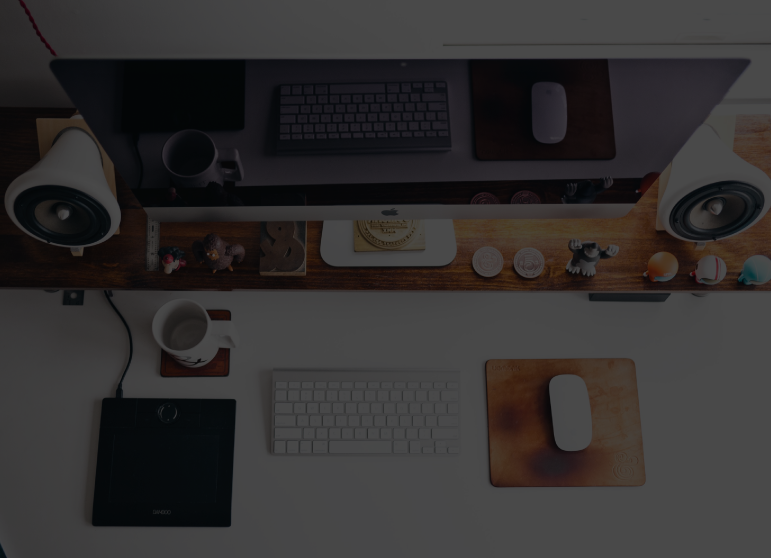
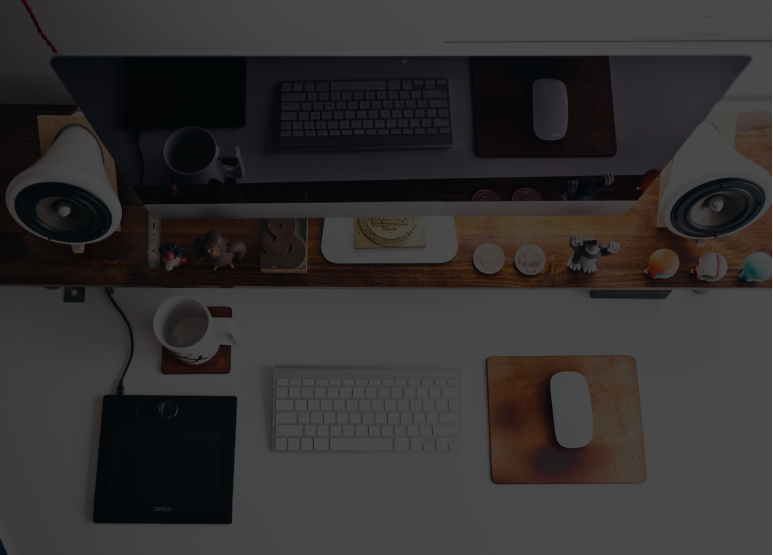
update to main background img, changed login button color

diff --git a/css/cyphre.min.css b/css/cyphre.min.css
@@ -1,1 +1,1 @@
-.font-thin{font-family:"Titillium Web",sans-serif;font-weight:200}.font-semibold{font-family:"Titillium Web",sans-serif;font-weight:600}.font-light{font-family:"Titillium Web",sans-serif;font-weight:300}body{overflow-x:hidden;font-family:"Roboto Slab","Helvetica Neue",Helvetica,Arial,sans-serif}.text-muted{color:#777}.text-primary{color:#fcc40b}p{font-size:14px;line-height:1.75}p.large{font-size:16px}a,a.active,a:active,a:focus,a:hover{outline:0}a{color:#fcc40b}a.active,a:active,a:focus,a:hover{color:#d1a103}h1,h2,h3,h4,h5,h6{font-family:Montserrat,"Helvetica Neue",Helvetica,Arial,sans-serif;text-transform:uppercase;font-weight:700}.img-centered{margin:0 auto}.bg-light-gray{background-color:#f7f7f7}.bg-darkest-gray{background-color:#222}.btn-redirect{color:#fff;background-color:#fcc40b;border-color:#fcc40b;font-family:Montserrat,"Helvetica Neue",Helvetica,Arial,sans-serif;text-transform:uppercase;border-radius:3px;margin-right:5px;font-size:14px;padding:20px 40px}.btn-redirect.active,.btn-redirect:active,.btn-redirect:focus,.btn-redirect:hover,.open .dropdown-toggle.btn-redirect{color:#fff;background-color:#d1a103;border-color:#c79a02}.btn-redirect.active,.btn-redirect:active,.open .dropdown-toggle.btn-redirect{background-image:none}.btn-redirect.disabled,.btn-redirect.disabled.active,.btn-redirect.disabled:active,.btn-redirect.disabled:focus,.btn-redirect.disabled:hover,.btn-redirect[disabled],.btn-redirect[disabled].active,.btn-redirect[disabled]:active,.btn-redirect[disabled]:focus,.btn-redirect[disabled]:hover,fieldset[disabled] .btn-redirect,fieldset[disabled] .btn-redirect.active,fieldset[disabled] .btn-redirect:active,fieldset[disabled] .btn-redirect:focus,fieldset[disabled] .btn-redirect:hover{background-color:#fcc40b;border-color:#fcc40b}.btn-redirect .badge{color:#fcc40b;background-color:#fff}.btn-primary{color:#fff;background-color:transparent;border-color:#fff;font-family:Montserrat,"Helvetica Neue",Helvetica,Arial,sans-serif;text-transform:uppercase;font-weight:700}.btn-primary.active,.btn-primary:active,.btn-primary:focus,.btn-primary:hover,.open .dropdown-toggle.btn-primary{color:#fff;background-color:transparent;border-color:#e0e0e0}.btn-primary.active,.btn-primary:active,.open .dropdown-toggle.btn-primary{background-image:none}.btn-primary.disabled,.btn-primary.disabled.active,.btn-primary.disabled:active,.btn-primary.disabled:focus,.btn-primary.disabled:hover,.btn-primary[disabled],.btn-primary[disabled].active,.btn-primary[disabled]:active,.btn-primary[disabled]:focus,.btn-primary[disabled]:hover,fieldset[disabled] .btn-primary,fieldset[disabled] .btn-primary.active,fieldset[disabled] .btn-primary:active,fieldset[disabled] .btn-primary:focus,fieldset[disabled] .btn-primary:hover{background-color:transparent;border-color:#fff}.btn-primary .badge{color:transparent;background-color:#fff}.btn-xl{color:#fff;background-color:#fcc40b;border-color:#fcc40b;font-family:Montserrat,"Helvetica Neue",Helvetica,Arial,sans-serif;text-transform:uppercase;font-weight:700;border-radius:3px;font-size:18px;padding:20px 40px}.btn-xl.active,.btn-xl:active,.btn-xl:focus,.btn-xl:hover,.open .dropdown-toggle.btn-xl{color:#fff;background-color:#d1a103;border-color:#c79a02}.btn-xl.active,.btn-xl:active,.open .dropdown-toggle.btn-xl{background-image:none}.btn-xl.disabled,.btn-xl.disabled.active,.btn-xl.disabled:active,.btn-xl.disabled:focus,.btn-xl.disabled:hover,.btn-xl[disabled],.btn-xl[disabled].active,.btn-xl[disabled]:active,.btn-xl[disabled]:focus,.btn-xl[disabled]:hover,fieldset[disabled] .btn-xl,fieldset[disabled] .btn-xl.active,fieldset[disabled] .btn-xl:active,fieldset[disabled] .btn-xl:focus,fieldset[disabled] .btn-xl:hover{background-color:#fcc40b;border-color:#fcc40b}.btn-xl .badge{color:#fcc40b;background-color:#fff}.navbar-default{background-color:#222;border-color:transparent}.navbar-default .navbar-brand{margin-left:10px;padding:0 15px;color:#fff;font-family:"Open Sans",sans-serif}.navbar-default .navbar-brand.active,.navbar-default .navbar-brand:active,.navbar-default .navbar-brand:focus,.navbar-default .navbar-brand:hover{color:#d1a103}.navbar-default .navbar-collapse{border-color:rgba(255,255,255,.02)}.navbar-default .navbar-toggle{background-color:transparent;border-color:#fff}.navbar-default .navbar-toggle .icon-bar{background-color:#fff}.navbar-default .navbar-toggle:focus,.navbar-default .navbar-toggle:hover{background-color:#fcc40b}.navbar-default .nav li a{font-family:Montserrat,"Helvetica Neue",Helvetica,Arial,sans-serif;text-transform:uppercase;font-weight:400;letter-spacing:1px;color:#fff}.navbar-default .nav li a:focus,.navbar-default .nav li a:hover{color:#fcc40b;outline:0}.navbar-default .navbar-nav>.active>a{border-radius:0;color:#fff;background-color:#fcc40b}.navbar-default .navbar-nav>.active>a:focus,.navbar-default .navbar-nav>.active>a:hover{color:#fff;background-color:#d1a103}@media (min-width:768px){.navbar-default{background-color:transparent;padding:15px 0;-webkit-transition:padding .3s;-moz-transition:padding .3s;transition:padding .3s;border:none}.navbar-default .navbar-brand{font-size:2em;-webkit-transition:all .3s;-moz-transition:all .3s;transition:all .3s}.navbar-default .navbar-nav>.active>a{border-radius:3px}.navbar-default.navbar-shrink{background-color:#222;padding:15px 0}}header{background-image:url(../img/Background.png);background-repeat:none;background-attachment:scroll;background-position:center center;-webkit-background-size:cover;-moz-background-size:cover;background-size:cover;-o-background-size:cover;text-align:center;color:#fff}header .intro-text{padding-top:100px;padding-bottom:50px}header .intro-text .intro-lead-in{font-family:"Titillium Web",sans-serif;font-weight:200;font-size:22px;line-height:22px;margin-bottom:25px}header .intro-text .intro-heading{font-family:Montserrat,"Helvetica Neue",Helvetica,Arial,sans-serif;text-transform:uppercase;font-weight:700;font-size:50px;line-height:50px;margin-bottom:25px}@media (min-width:768px){header .intro-text{padding-top:300px;padding-bottom:200px}header .intro-text .intro-lead-in{font-family:"Titillium Web",sans-serif;font-weight:200;font-size:40px;line-height:40px;margin-bottom:25px}header .intro-text .intro-heading{font-family:Montserrat,"Helvetica Neue",Helvetica,Arial,sans-serif;text-transform:uppercase;font-weight:700;font-size:40px;line-height:40px;margin-bottom:50px}}section{padding:100px 0}section h2.section-heading{font-size:40px;margin-top:0;margin-bottom:15px}section h3.section-subheading{font-size:16px;font-family:"Droid Serif","Helvetica Neue",Helvetica,Arial,sans-serif;text-transform:none;font-style:italic;font-weight:400;margin-bottom:75px}@media (min-width:768px){section{padding:150px 0}}.service-heading{margin:15px 0;text-transform:none}.team-member{text-align:center;margin-bottom:50px}.team-member img{margin:0 auto;border:7px solid #fff}.team-member h4{margin-top:25px;margin-bottom:0;text-transform:none}.team-member p{margin-top:0}section#contact{background-color:#222;background-image:url(../img/map-image.png);background-position:center;background-repeat:no-repeat}section#contact .section-heading{color:#fff}section#contact .form-group{margin-bottom:25px}section#contact .form-group input,section#contact .form-group textarea{padding:20px}section#contact .form-group input.form-control{height:auto}section#contact .form-group textarea.form-control{height:236px}section#contact .form-control:focus{border-color:#fcc40b;box-shadow:none}section#contact ::-webkit-input-placeholder{font-family:Montserrat,"Helvetica Neue",Helvetica,Arial,sans-serif;text-transform:uppercase;font-weight:700;color:#bbb}section#contact :-moz-placeholder{font-family:Montserrat,"Helvetica Neue",Helvetica,Arial,sans-serif;text-transform:uppercase;font-weight:700;color:#bbb}section#contact ::-moz-placeholder{font-family:Montserrat,"Helvetica Neue",Helvetica,Arial,sans-serif;text-transform:uppercase;font-weight:700;color:#bbb}section#contact :-ms-input-placeholder{font-family:Montserrat,"Helvetica Neue",Helvetica,Arial,sans-serif;text-transform:uppercase;font-weight:700;color:#bbb}section#contact .text-danger{color:#e74c3c}footer{padding:25px 0;text-align:center}footer span.copyright{line-height:40px;font-family:Montserrat,"Helvetica Neue",Helvetica,Arial,sans-serif;text-transform:uppercase;text-transform:none}footer ul.quicklinks{margin-bottom:0;line-height:40px;font-family:Montserrat,"Helvetica Neue",Helvetica,Arial,sans-serif;text-transform:uppercase;text-transform:none}ul.social-buttons{margin-bottom:0}ul.social-buttons li a{display:block;background-color:#222;height:40px;width:40px;border-radius:100%;font-size:20px;line-height:40px;color:#fff;outline:0;-webkit-transition:all .3s;-moz-transition:all .3s;transition:all .3s}ul.social-buttons li a:active,ul.social-buttons li a:focus,ul.social-buttons li a:hover{background-color:#fcc40b}.btn.active,.btn:active,.btn:active:focus,.btn:focus{outline:0}::-moz-selection{text-shadow:none;background:#fcc40b}::selection{text-shadow:none;background:#fcc40b}img::selection{background:0 0}img::-moz-selection{background:0 0}body{webkit-tap-highlight-color:#fcc40b}
+.font-thin{font-family:"Titillium Web",sans-serif;font-weight:200}.font-semibold{font-family:"Titillium Web",sans-serif;font-weight:600}.font-light{font-family:"Titillium Web",sans-serif;font-weight:300}body{overflow-x:hidden;font-family:"Roboto Slab","Helvetica Neue",Helvetica,Arial,sans-serif}.text-muted{color:#777}.text-primary{color:#fcc40b}p{font-size:14px;line-height:1.75}p.large{font-size:16px}a,a.active,a:active,a:focus,a:hover{outline:0}a{color:#fcc40b}a.active,a:active,a:focus,a:hover{color:#d1a103}h1,h2,h3,h4,h5,h6{font-family:Montserrat,"Helvetica Neue",Helvetica,Arial,sans-serif;text-transform:uppercase;font-weight:700}.img-centered{margin:0 auto}.bg-light-gray{background-color:#f7f7f7}.bg-darkest-gray{background-color:#222}.btn-login{color:#fff;background-color:transparent;border-color:#fcc40b;font-family:Montserrat,"Helvetica Neue",Helvetica,Arial,sans-serif;text-transform:uppercase;border-radius:3px;margin-right:5px;font-size:14px;padding:20px 40px}.btn-login.active,.btn-login:active,.btn-login:focus,.btn-login:hover,.open .dropdown-toggle.btn-login{color:#fff;background-color:transparent;border-color:#c79a02}.btn-login.active,.btn-login:active,.open .dropdown-toggle.btn-login{background-image:none}.btn-login.disabled,.btn-login.disabled.active,.btn-login.disabled:active,.btn-login.disabled:focus,.btn-login.disabled:hover,.btn-login[disabled],.btn-login[disabled].active,.btn-login[disabled]:active,.btn-login[disabled]:focus,.btn-login[disabled]:hover,fieldset[disabled] .btn-login,fieldset[disabled] .btn-login.active,fieldset[disabled] .btn-login:active,fieldset[disabled] .btn-login:focus,fieldset[disabled] .btn-login:hover{background-color:transparent;border-color:#fcc40b}.btn-login .badge{color:transparent;background-color:#fff}.btn-signup{color:#fff;background-color:#fcc40b;border-color:#fcc40b;font-family:Montserrat,"Helvetica Neue",Helvetica,Arial,sans-serif;text-transform:uppercase;border-radius:3px;margin-right:5px;font-size:14px;padding:20px 40px}.btn-signup.active,.btn-signup:active,.btn-signup:focus,.btn-signup:hover,.open .dropdown-toggle.btn-signup{color:#fff;background-color:#d1a103;border-color:#c79a02}.btn-signup.active,.btn-signup:active,.open .dropdown-toggle.btn-signup{background-image:none}.btn-signup.disabled,.btn-signup.disabled.active,.btn-signup.disabled:active,.btn-signup.disabled:focus,.btn-signup.disabled:hover,.btn-signup[disabled],.btn-signup[disabled].active,.btn-signup[disabled]:active,.btn-signup[disabled]:focus,.btn-signup[disabled]:hover,fieldset[disabled] .btn-signup,fieldset[disabled] .btn-signup.active,fieldset[disabled] .btn-signup:active,fieldset[disabled] .btn-signup:focus,fieldset[disabled] .btn-signup:hover{background-color:#fcc40b;border-color:#fcc40b}.btn-signup .badge{color:#fcc40b;background-color:#fff}.btn-primary{color:#fff;background-color:transparent;border-color:#fff;font-family:Montserrat,"Helvetica Neue",Helvetica,Arial,sans-serif;text-transform:uppercase;font-weight:700}.btn-primary.active,.btn-primary:active,.btn-primary:focus,.btn-primary:hover,.open .dropdown-toggle.btn-primary{color:#fff;background-color:transparent;border-color:#e0e0e0}.btn-primary.active,.btn-primary:active,.open .dropdown-toggle.btn-primary{background-image:none}.btn-primary.disabled,.btn-primary.disabled.active,.btn-primary.disabled:active,.btn-primary.disabled:focus,.btn-primary.disabled:hover,.btn-primary[disabled],.btn-primary[disabled].active,.btn-primary[disabled]:active,.btn-primary[disabled]:focus,.btn-primary[disabled]:hover,fieldset[disabled] .btn-primary,fieldset[disabled] .btn-primary.active,fieldset[disabled] .btn-primary:active,fieldset[disabled] .btn-primary:focus,fieldset[disabled] .btn-primary:hover{background-color:transparent;border-color:#fff}.btn-primary .badge{color:transparent;background-color:#fff}.btn-xl{color:#fff;background-color:#fcc40b;border-color:#fcc40b;font-family:Montserrat,"Helvetica Neue",Helvetica,Arial,sans-serif;text-transform:uppercase;font-weight:700;border-radius:3px;font-size:18px;padding:20px 40px}.btn-xl.active,.btn-xl:active,.btn-xl:focus,.btn-xl:hover,.open .dropdown-toggle.btn-xl{color:#fff;background-color:#d1a103;border-color:#c79a02}.btn-xl.active,.btn-xl:active,.open .dropdown-toggle.btn-xl{background-image:none}.btn-xl.disabled,.btn-xl.disabled.active,.btn-xl.disabled:active,.btn-xl.disabled:focus,.btn-xl.disabled:hover,.btn-xl[disabled],.btn-xl[disabled].active,.btn-xl[disabled]:active,.btn-xl[disabled]:focus,.btn-xl[disabled]:hover,fieldset[disabled] .btn-xl,fieldset[disabled] .btn-xl.active,fieldset[disabled] .btn-xl:active,fieldset[disabled] .btn-xl:focus,fieldset[disabled] .btn-xl:hover{background-color:#fcc40b;border-color:#fcc40b}.btn-xl .badge{color:#fcc40b;background-color:#fff}.navbar-default{background-color:#222;border-color:transparent}.navbar-default .navbar-brand{margin-left:10px;padding:0 15px;color:#fff;font-family:"Open Sans",sans-serif}.navbar-default .navbar-brand.active,.navbar-default .navbar-brand:active,.navbar-default .navbar-brand:focus,.navbar-default .navbar-brand:hover{color:#d1a103}.navbar-default .navbar-collapse{border-color:rgba(255,255,255,.02)}.navbar-default .navbar-toggle{background-color:transparent;border-color:#fff}.navbar-default .navbar-toggle .icon-bar{background-color:#fff}.navbar-default .navbar-toggle:focus,.navbar-default .navbar-toggle:hover{background-color:#fcc40b}.navbar-default .nav li a{font-family:Montserrat,"Helvetica Neue",Helvetica,Arial,sans-serif;text-transform:uppercase;font-weight:400;letter-spacing:1px;color:#fff}.navbar-default .nav li a:focus,.navbar-default .nav li a:hover{color:#fcc40b;outline:0}.navbar-default .navbar-nav>.active>a{border-radius:0;color:#fff;background-color:#fcc40b}.navbar-default .navbar-nav>.active>a:focus,.navbar-default .navbar-nav>.active>a:hover{color:#fff;background-color:#d1a103}@media (min-width:768px){.navbar-default{background-color:transparent;padding:15px 0;-webkit-transition:padding .3s;-moz-transition:padding .3s;transition:padding .3s;border:none}.navbar-default .navbar-brand{font-size:2em;-webkit-transition:all .3s;-moz-transition:all .3s;transition:all .3s}.navbar-default .navbar-nav>.active>a{border-radius:3px}.navbar-default.navbar-shrink{background-color:#222;padding:15px 0}}header{background-image:url(../img/Background.png);background-repeat:none;background-attachment:scroll;background-position:center center;-webkit-background-size:cover;-moz-background-size:cover;background-size:cover;-o-background-size:cover;text-align:center;color:#fff}header .intro-text{padding-top:100px;padding-bottom:50px}header .intro-text .intro-lead-in{font-family:"Titillium Web",sans-serif;font-weight:200;font-size:22px;line-height:22px;margin-bottom:25px}header .intro-text .intro-heading{font-family:Montserrat,"Helvetica Neue",Helvetica,Arial,sans-serif;text-transform:uppercase;font-weight:700;font-size:50px;line-height:50px;margin-bottom:25px}@media (min-width:768px){header .intro-text{padding-top:300px;padding-bottom:200px}header .intro-text .intro-lead-in{font-family:"Titillium Web",sans-serif;font-weight:200;font-size:40px;line-height:40px;margin-bottom:25px}header .intro-text .intro-heading{font-family:Montserrat,"Helvetica Neue",Helvetica,Arial,sans-serif;text-transform:uppercase;font-weight:700;font-size:40px;line-height:40px;margin-bottom:50px}}section{padding:100px 0}section h2.section-heading{font-size:40px;margin-top:0;margin-bottom:15px}section h3.section-subheading{font-size:16px;font-family:"Droid Serif","Helvetica Neue",Helvetica,Arial,sans-serif;text-transform:none;font-style:italic;font-weight:400;margin-bottom:75px}@media (min-width:768px){section{padding:150px 0}}.service-heading{margin:15px 0;text-transform:none}.team-member{text-align:center;margin-bottom:50px}.team-member img{margin:0 auto;border:7px solid #fff}.team-member h4{margin-top:25px;margin-bottom:0;text-transform:none}.team-member p{margin-top:0}section#contact{background-color:#222;background-image:url(../img/map-image.png);background-position:center;background-repeat:no-repeat}section#contact .section-heading{color:#fff}section#contact .form-group{margin-bottom:25px}section#contact .form-group input,section#contact .form-group textarea{padding:20px}section#contact .form-group input.form-control{height:auto}section#contact .form-group textarea.form-control{height:236px}section#contact .form-control:focus{border-color:#fcc40b;box-shadow:none}section#contact ::-webkit-input-placeholder{font-family:Montserrat,"Helvetica Neue",Helvetica,Arial,sans-serif;text-transform:uppercase;font-weight:700;color:#bbb}section#contact :-moz-placeholder{font-family:Montserrat,"Helvetica Neue",Helvetica,Arial,sans-serif;text-transform:uppercase;font-weight:700;color:#bbb}section#contact ::-moz-placeholder{font-family:Montserrat,"Helvetica Neue",Helvetica,Arial,sans-serif;text-transform:uppercase;font-weight:700;color:#bbb}section#contact :-ms-input-placeholder{font-family:Montserrat,"Helvetica Neue",Helvetica,Arial,sans-serif;text-transform:uppercase;font-weight:700;color:#bbb}section#contact .text-danger{color:#e74c3c}footer{padding:25px 0;text-align:center}footer span.copyright{line-height:40px;font-family:Montserrat,"Helvetica Neue",Helvetica,Arial,sans-serif;text-transform:uppercase;text-transform:none}footer ul.quicklinks{margin-bottom:0;line-height:40px;font-family:Montserrat,"Helvetica Neue",Helvetica,Arial,sans-serif;text-transform:uppercase;text-transform:none}ul.social-buttons{margin-bottom:0}ul.social-buttons li a{display:block;background-color:#222;height:40px;width:40px;border-radius:100%;font-size:20px;line-height:40px;color:#fff;outline:0;-webkit-transition:all .3s;-moz-transition:all .3s;transition:all .3s}ul.social-buttons li a:active,ul.social-buttons li a:focus,ul.social-buttons li a:hover{background-color:#fcc40b}.btn.active,.btn:active,.btn:active:focus,.btn:focus{outline:0}::-moz-selection{text-shadow:none;background:#fcc40b}::selection{text-shadow:none;background:#fcc40b}img::selection{background:0 0}img::-moz-selection{background:0 0}body{webkit-tap-highlight-color:#fcc40b}

diff --git a/css/cyphre.css b/css/cyphre.css
@@ -62,7 +62,54 @@ h6 {
 .bg-darkest-gray {
   background-color: #222222;
 }
-.btn-redirect {
+.btn-login {
+  color: white;
+  background-color: transparent;
+  border-color: #fcc40b;
+  font-family: "Montserrat", "Helvetica Neue", Helvetica, Arial, sans-serif;
+  text-transform: uppercase;
+  border-radius: 3px;
+  margin-right: 5px;
+  font-size: 14px;
+  padding: 20px 40px;
+}
+.btn-login:hover,
+.btn-login:focus,
+.btn-login:active,
+.btn-login.active,
+.open .dropdown-toggle.btn-login {
+  color: white;
+  background-color: rgba(0, 0, 0, 0);
+  border-color: #c79a02;
+}
+.btn-login:active,
+.btn-login.active,
+.open .dropdown-toggle.btn-login {
+  background-image: none;
+}
+.btn-login.disabled,
+.btn-login[disabled],
+fieldset[disabled] .btn-login,
+.btn-login.disabled:hover,
+.btn-login[disabled]:hover,
+fieldset[disabled] .btn-login:hover,
+.btn-login.disabled:focus,
+.btn-login[disabled]:focus,
+fieldset[disabled] .btn-login:focus,
+.btn-login.disabled:active,
+.btn-login[disabled]:active,
+fieldset[disabled] .btn-login:active,
+.btn-login.disabled.active,
+.btn-login[disabled].active,
+fieldset[disabled] .btn-login.active {
+  background-color: transparent;
+  border-color: #fcc40b;
+}
+.btn-login .badge {
+  color: transparent;
+  background-color: white;
+}
+.btn-signup {
   color: white;
   background-color: #fcc40b;
   border-color: #fcc40b;
@@ -73,39 +120,39 @@ h6 {
   font-size: 14px;
   padding: 20px 40px;
 }
-.btn-redirect:hover,
-.btn-redirect:focus,
-.btn-redirect:active,
-.btn-redirect.active,
-.open .dropdown-toggle.btn-redirect {
+.btn-signup:hover,
+.btn-signup:focus,
+.btn-signup:active,
+.btn-signup.active,
+.open .dropdown-toggle.btn-signup {
   color: white;
   background-color: #d1a103;
   border-color: #c79a02;
 }
-.btn-redirect:active,
-.btn-redirect.active,
-.open .dropdown-toggle.btn-redirect {
+.btn-signup:active,
+.btn-signup.active,
+.open .dropdown-toggle.btn-signup {
   background-image: none;
 }
-.btn-redirect.disabled,
-.btn-redirect[disabled],
-fieldset[disabled] .btn-redirect,
-.btn-redirect.disabled:hover,
-.btn-redirect[disabled]:hover,
-fieldset[disabled] .btn-redirect:hover,
-.btn-redirect.disabled:focus,
-.btn-redirect[disabled]:focus,
-fieldset[disabled] .btn-redirect:focus,
-.btn-redirect.disabled:active,
-.btn-redirect[disabled]:active,
-fieldset[disabled] .btn-redirect:active,
-.btn-redirect.disabled.active,
-.btn-redirect[disabled].active,
-fieldset[disabled] .btn-redirect.active {
+.btn-signup.disabled,
+.btn-signup[disabled],
+fieldset[disabled] .btn-signup,
+.btn-signup.disabled:hover,
+.btn-signup[disabled]:hover,
+fieldset[disabled] .btn-signup:hover,
+.btn-signup.disabled:focus,
+.btn-signup[disabled]:focus,
+fieldset[disabled] .btn-signup:focus,
+.btn-signup.disabled:active,
+.btn-signup[disabled]:active,
+fieldset[disabled] .btn-signup:active,
+.btn-signup.disabled.active,
+.btn-signup[disabled].active,
+fieldset[disabled] .btn-signup.active {
   background-color: #fcc40b;
   border-color: #fcc40b;
 }
-.btn-redirect .badge {
+.btn-signup .badge {
   color: #fcc40b;
   background-color: white;
 }

diff --git a/index.html b/index.html
@@ -24,12 +24,14 @@
 
     <!-- App CSS -->
     <link rel="stylesheet" href="css/cyphre.css">
+
     <!-- HTML5 Shim and Respond.js IE8 support of HTML5 elements and media queries -->
     <!-- WARNING: Respond.js doesn't work if you view the page via file:// -->
     <!--[if lt IE 9]>
     <script src="https://oss.maxcdn.com/libs/html5shiv/3.7.0/html5shiv.js"></script>
     <script src="https://oss.maxcdn.com/libs/respond.js/1.4.2/respond.min.js"></script>
     <![endif]-->
+
 </head>
 <body class="page-top" id="page-top" ng-controller="MainCtrl as main">
     <!-- Navigation -->
@@ -44,7 +46,7 @@
                     <span class="icon-bar"></span>
                 </button>
                 <a class="navbar-brand page-scroll" href="#page-top">
-                    <img alt="Brand" height="50" src="https://cyphre.com/themes/svy/core/img/logo.svg">
+                    <img alt="Brand" height="44" src="https://cyphre.com/themes/svy/core/img/logo.svg">
                 </a>
             </div>
             <!-- Collect the nav links, forms, and other content for toggling -->
@@ -57,8 +59,8 @@
                     <li><a class="page-scroll" href="#contact">Contact</a></li>
                 </ul>
                 <ul class="nav navbar-nav navbar-right">
-                    <li><a class="btn btn-redirect" href="https://cyphre.com/index.php">Login</a></li>
-                    <li><a class="btn btn-redirect" href="https://cyphre.com/index.php/register/">Signup</a></li>
+                    <li><a class="btn btn-login" href="https://cyphre.com/index.php">Login</a></li>
+                    <li><a class="btn btn-signup" href="https://cyphre.com/index.php/register/">Sign up</a></li>
                 </ul>
             </div><!-- /.navbar-collapse -->
         </div><!-- /.container-fluid -->
@@ -68,7 +70,6 @@
     <header>
         <div class="container">
             <div class="intro-text">
-                <!-- <div class="intro-lead-in">{{main.welcome}}</div> -->
                 <div class="intro-heading">{{main.heading}}</div>
                 <a href="#about" class="page-scroll btn btn-xl">{{main.more}}</a>
             </div>
@@ -87,7 +88,7 @@
                 </div>
                 <div class="col-md-4">
                     <ul class="list-inline social-buttons">
-                        <li><a href="#"><i class="fa fa-twitter"></i></a></li>
+                        <li><a href="https://twitter.com/GetCyphre"><i class="fa fa-twitter"></i></a></li>
                         <li><a href="https://www.facebook.com/pages/Cyphre/424876137665559"><i class="fa fa-facebook"></i></a></li>
                         <li><a href="#"><i class="fa fa-linkedin"></i></a></li>
                     </ul>
@@ -112,5 +113,6 @@
 
     <!-- Angular App -->
     <script type="text/javascript" src="js/cyphre.js"></script>
+
 </body>
 </html>

diff --git a/src/index.html b/src/index.html
@@ -27,12 +27,14 @@
 
     <!-- App CSS -->
     <link rel="stylesheet" href="css/cyphre.css">
+
     <!-- HTML5 Shim and Respond.js IE8 support of HTML5 elements and media queries -->
     <!-- WARNING: Respond.js doesn't work if you view the page via file:// -->
     <!--[if lt IE 9]>
     <script src="https://oss.maxcdn.com/libs/html5shiv/3.7.0/html5shiv.js"></script>
     <script src="https://oss.maxcdn.com/libs/respond.js/1.4.2/respond.min.js"></script>
     <![endif]-->
+
 </head>
 <body class="page-top" id="page-top" ng-controller="MainCtrl as main">
     <!-- Navigation -->
@@ -47,7 +49,7 @@
                     <span class="icon-bar"></span>
                 </button>
                 <a class="navbar-brand page-scroll" href="#page-top">
-                    <img alt="Brand" height="50" src="https://cyphre.com/themes/svy/core/img/logo.svg">
+                    <img alt="Brand" height="44" src="https://cyphre.com/themes/svy/core/img/logo.svg">
                 </a>
             </div>
             <!-- Collect the nav links, forms, and other content for toggling -->
@@ -60,8 +62,8 @@
                     <li><a class="page-scroll" href="#contact">Contact</a></li>
                 </ul>
                 <ul class="nav navbar-nav navbar-right">
-                    <li><a class="btn btn-redirect" href="https://cyphre.com/index.php">Login</a></li>
-                    <li><a class="btn btn-redirect" href="https://cyphre.com/index.php/register/">Signup</a></li>
+                    <li><a class="btn btn-login" href="https://cyphre.com/index.php">Login</a></li>
+                    <li><a class="btn btn-signup" href="https://cyphre.com/index.php/register/">Sign up</a></li>
                 </ul>
             </div><!-- /.navbar-collapse -->
         </div><!-- /.container-fluid -->
@@ -71,7 +73,6 @@
     <header>
         <div class="container">
             <div class="intro-text">
-                <!-- <div class="intro-lead-in">{{main.welcome}}</div> -->
                 <div class="intro-heading">{{main.heading}}</div>
                 <a href="#about" class="page-scroll btn btn-xl">{{main.more}}</a>
             </div>
@@ -90,7 +91,7 @@
                 </div>
                 <div class="col-md-4">
                     <ul class="list-inline social-buttons">
-                        <li><a href="#"><i class="fa fa-twitter"></i></a></li>
+                        <li><a href="https://twitter.com/GetCyphre"><i class="fa fa-twitter"></i></a></li>
                         <li><a href="https://www.facebook.com/pages/Cyphre/424876137665559"><i class="fa fa-facebook"></i></a></li>
                         <li><a href="#"><i class="fa fa-linkedin"></i></a></li>
                     </ul>
@@ -123,5 +124,6 @@
 
     <!-- Angular App -->
     <script type="text/javascript" src="js/cyphre.js"></script>
+
 </body>
 </html>

diff --git a/src/less/cyphre.less b/src/less/cyphre.less
@@ -60,7 +60,16 @@ h1, h2, h3, h4, h5, h6 {
     background-color: @gray-darkest;
 }
 
-.btn-redirect {
+.btn-login {
+    .button-variant(white; transparent; @brand-primary);
+    .heading-font;
+    border-radius: 3px;
+    margin-right: 5px;
+    font-size: 14px;
+    padding: 20px 40px;
+}
+
+.btn-signup {
     .button-variant(white; @brand-primary; @brand-primary);
     .heading-font;
     border-radius: 3px;
